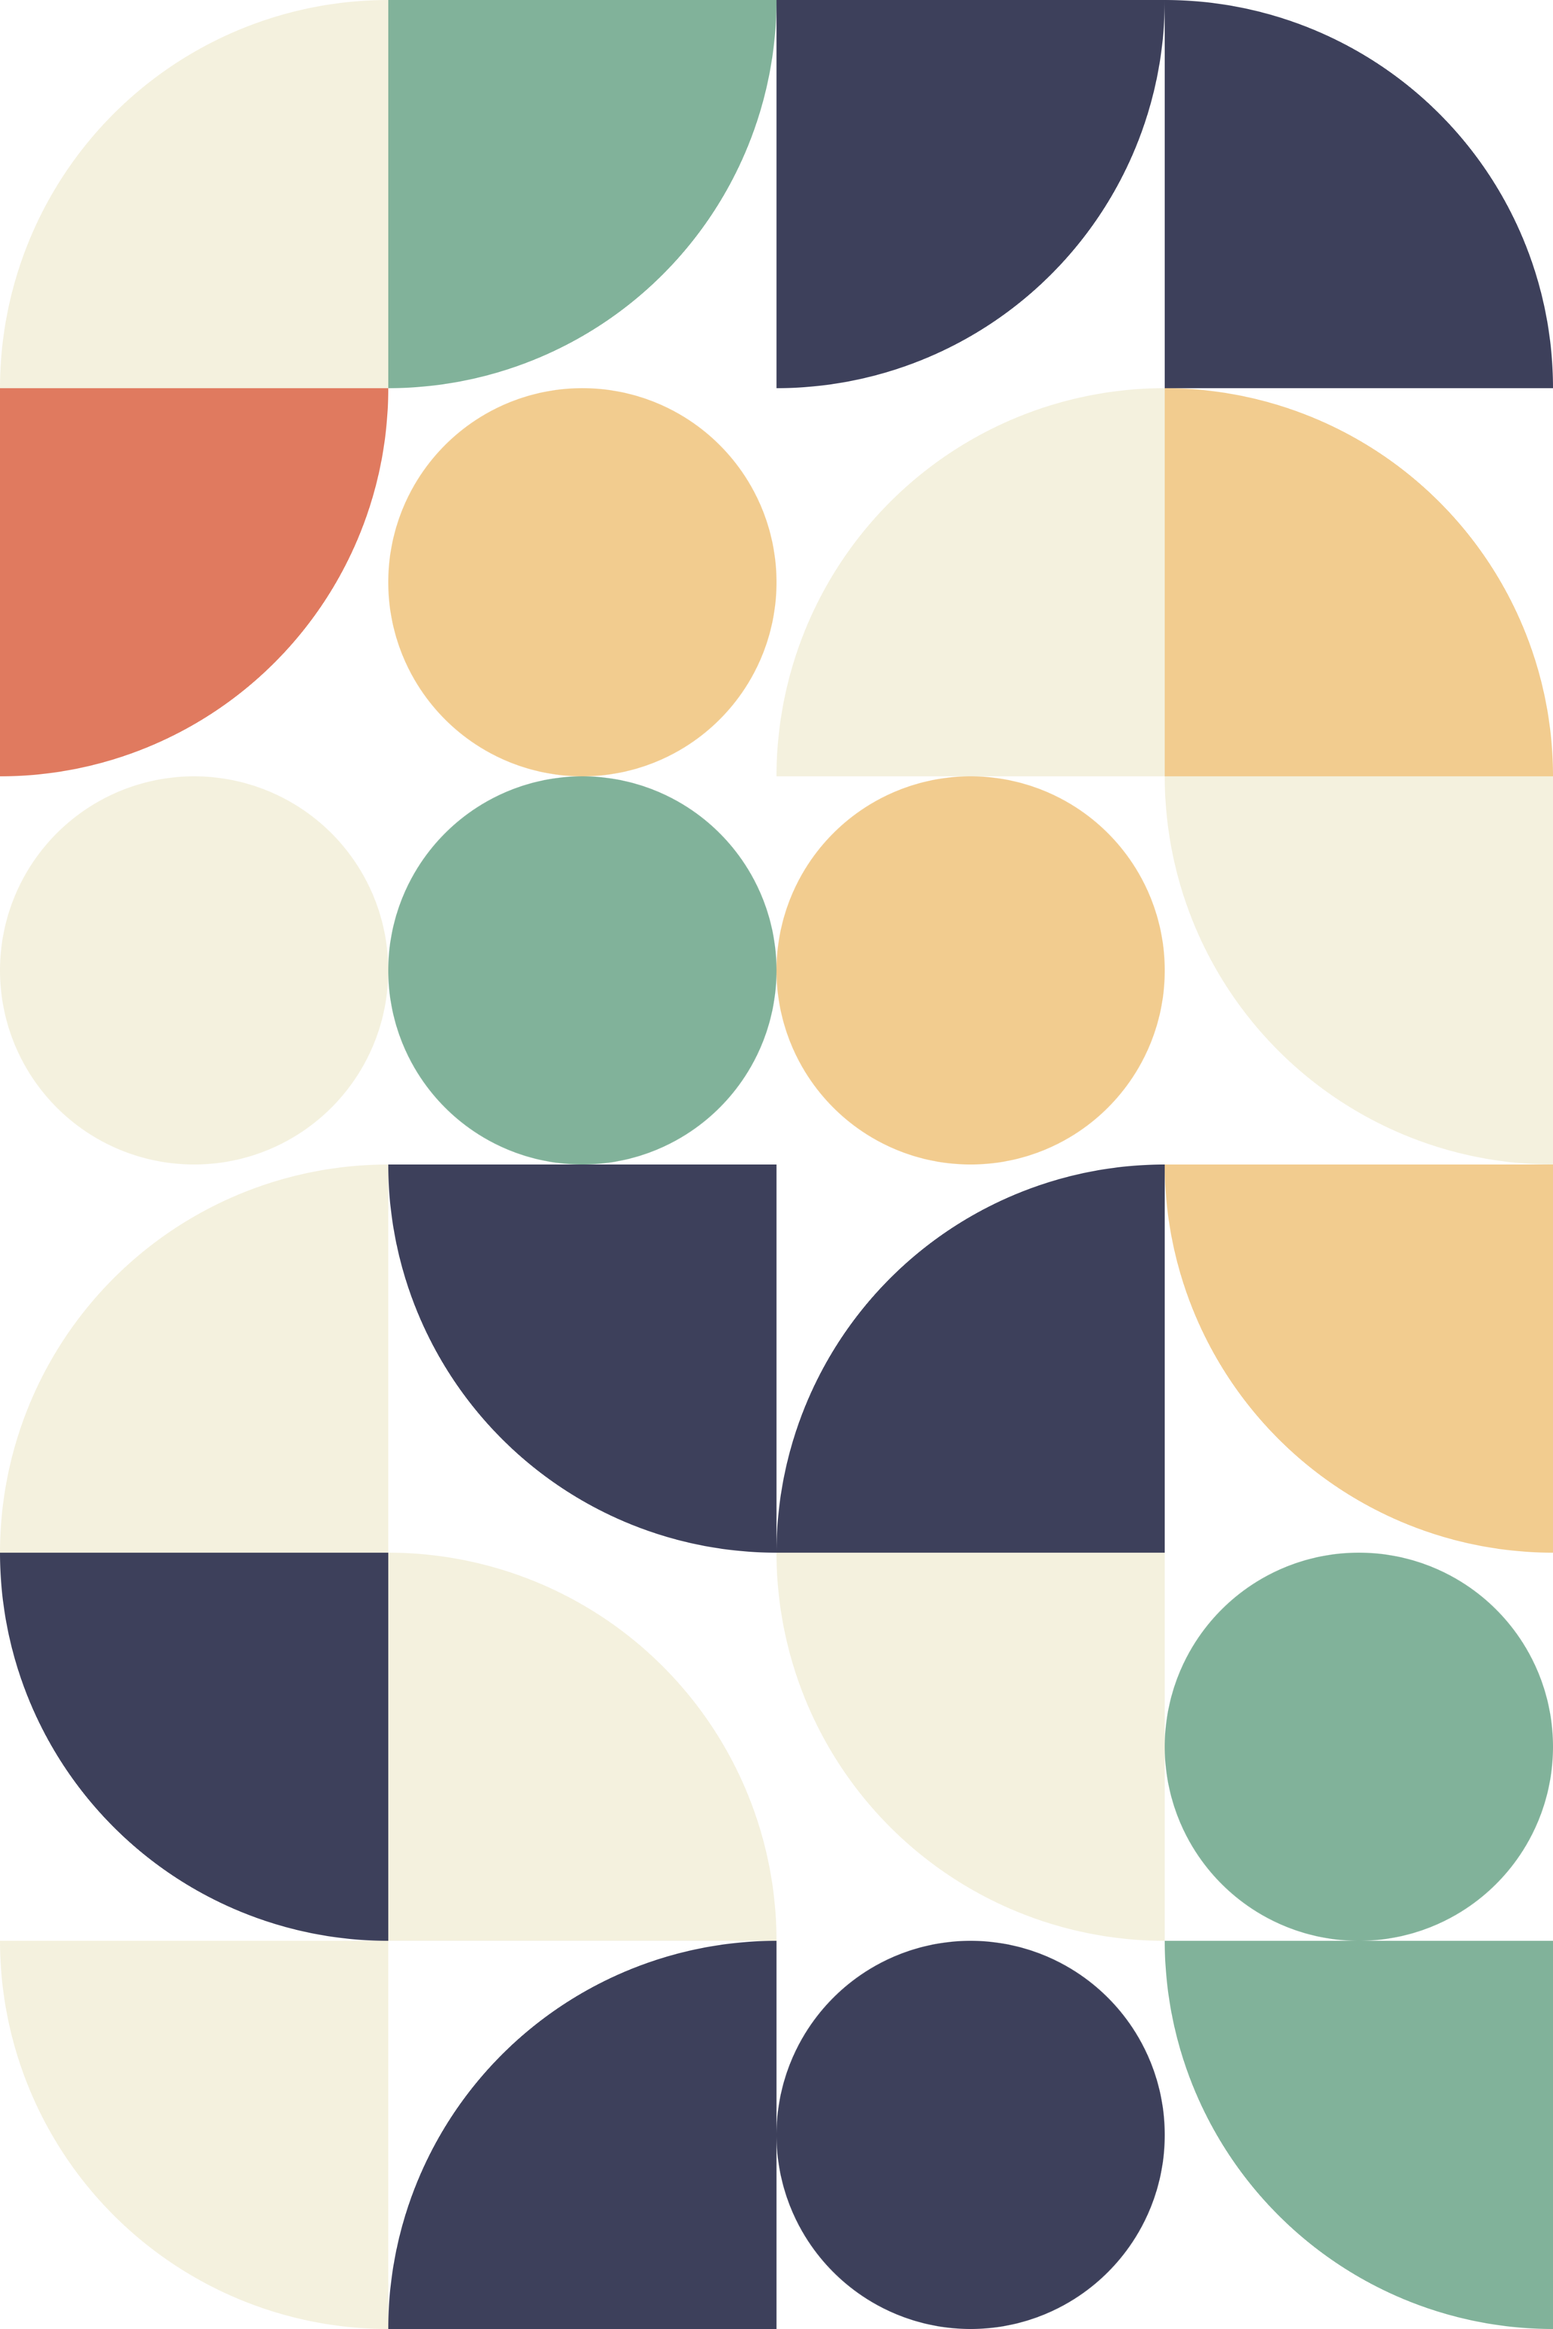
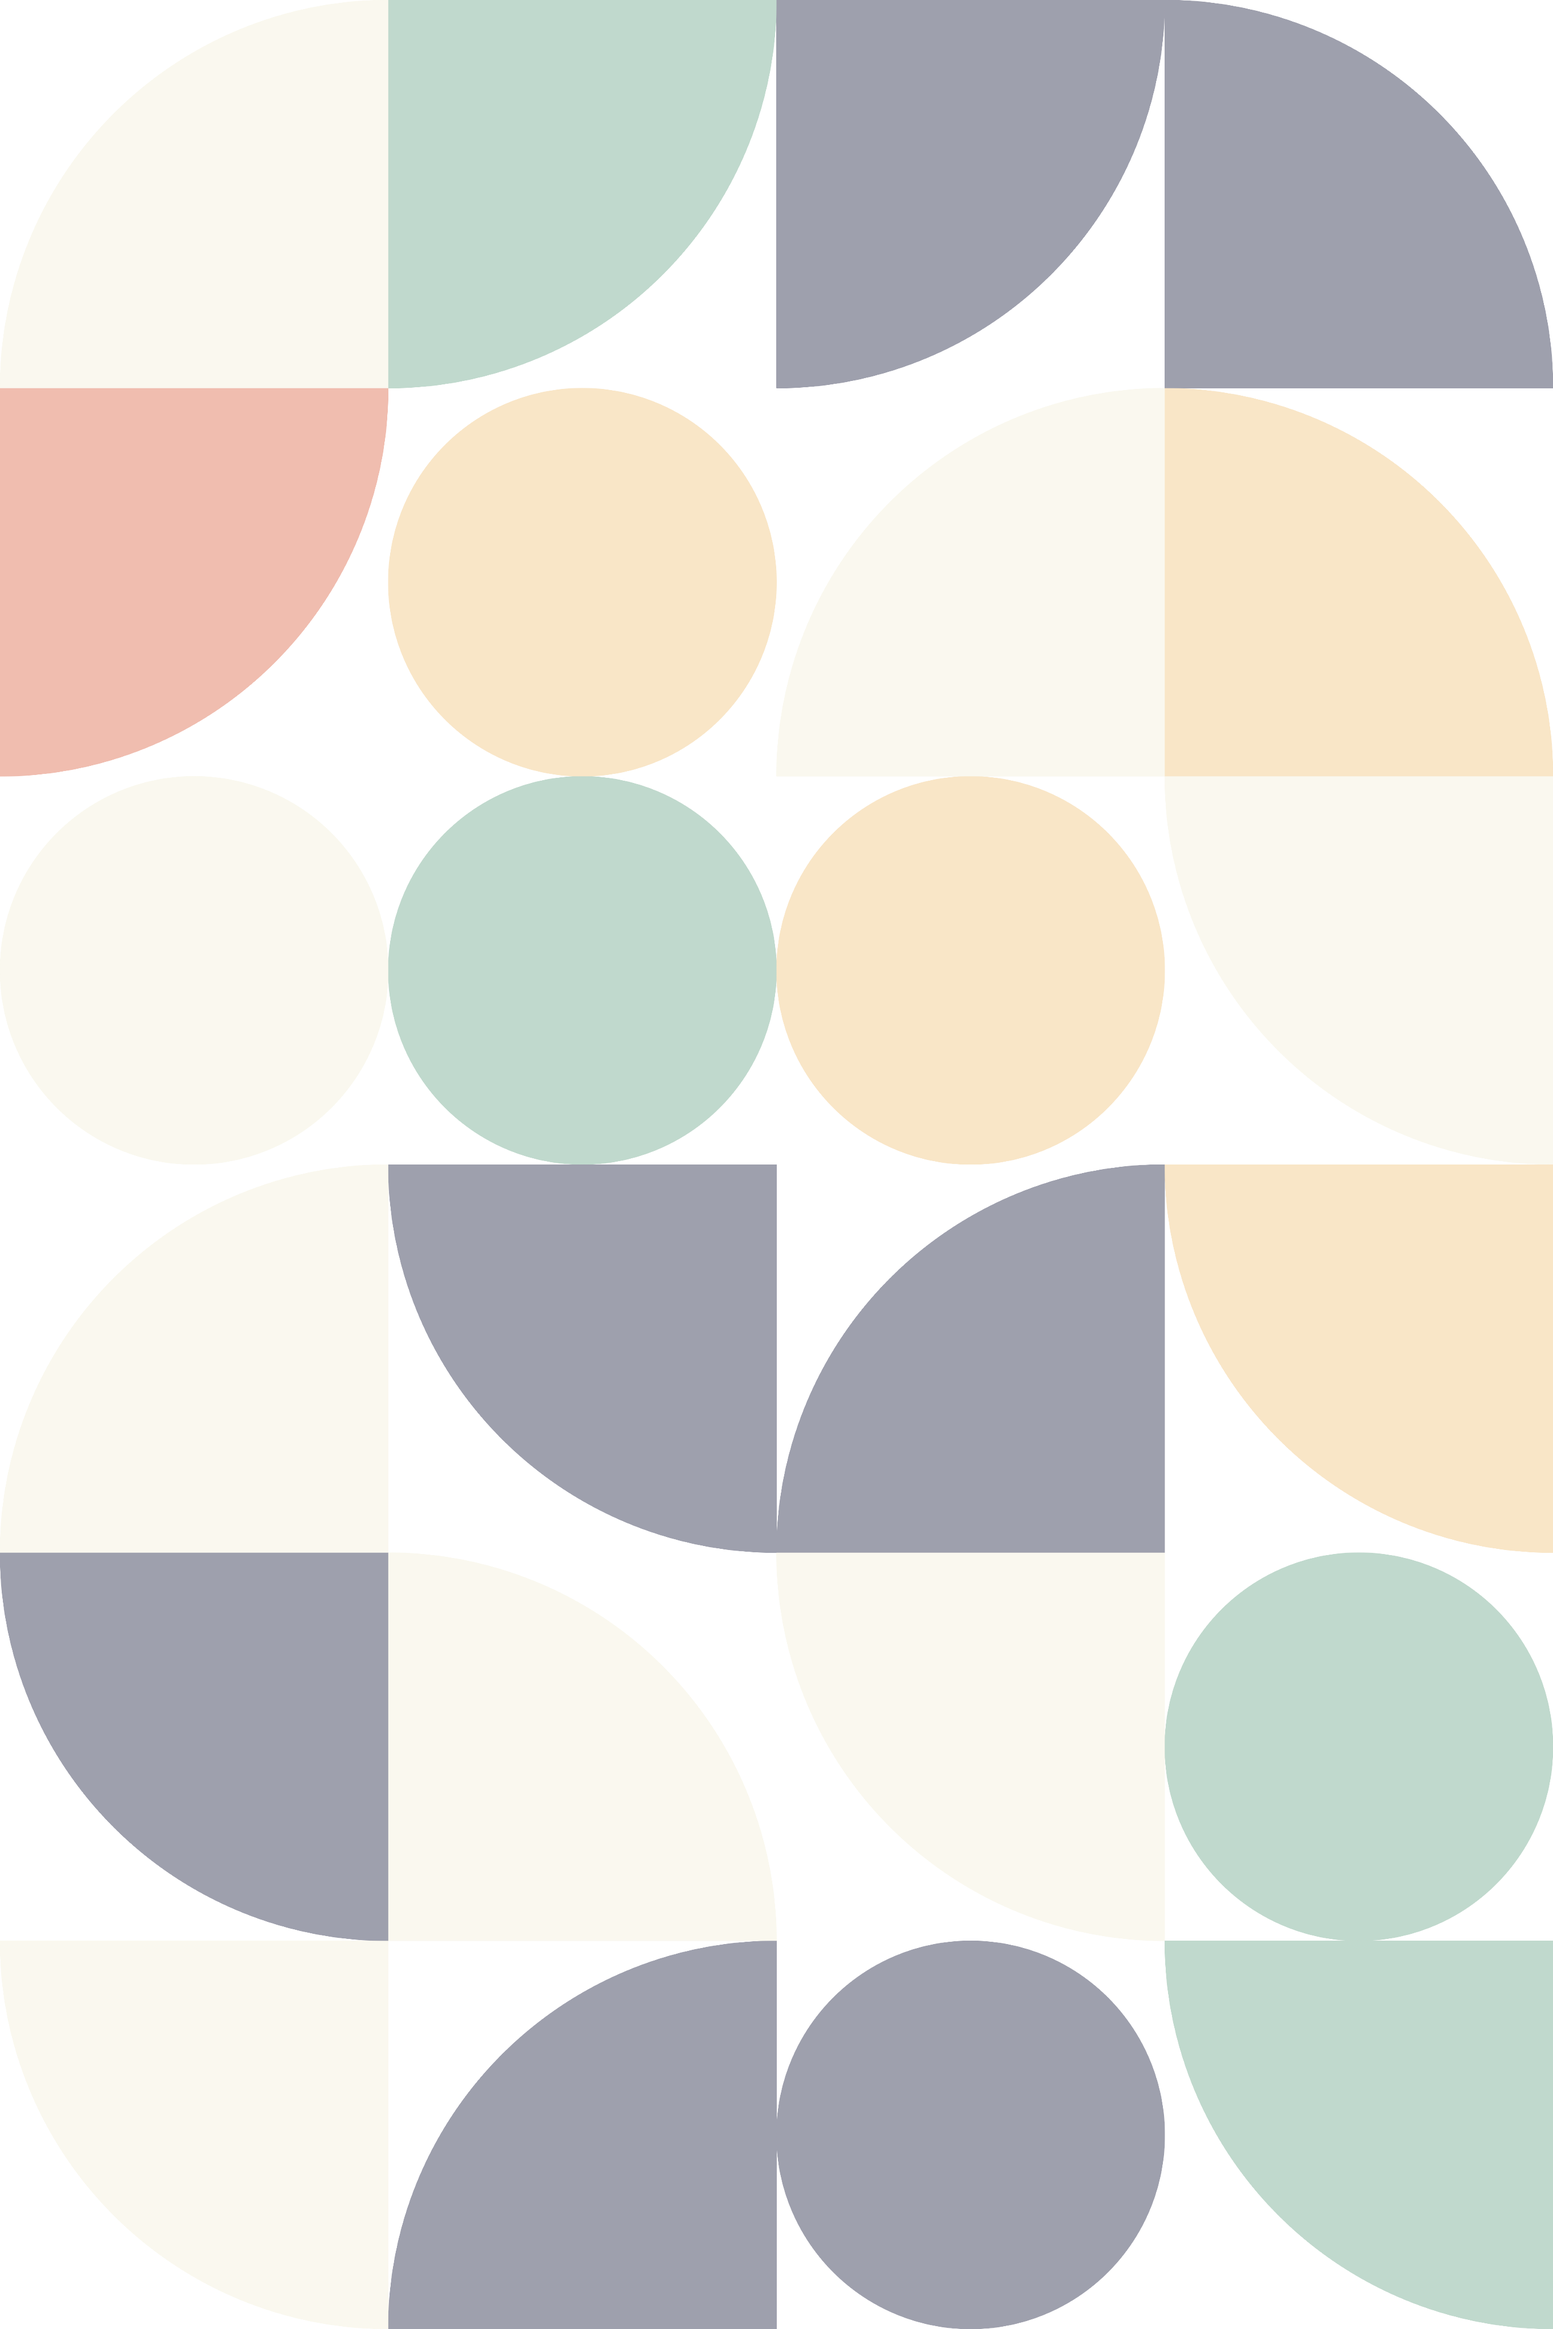
CSS changes in AppintmentSection

diff --git a/src/components/patient/appointment/AppointmentSection.tsx b/src/components/patient/appointment/AppointmentSection.tsx
@@ -43,54 +43,23 @@ function AppointmentSection({
     },
   };
 
-  const {
-    data: upcomingAppointments,
-    isLoading: upcomingAppointmentsLoading,
-  } = useQuery({
-    queryKey: ["upcomingAppointments", backendURL, config],
-    queryFn: () => PatientService.getUpcomingAppointments(backendURL, config),
-    staleTime: 200000,
-  });
+  const { data: upcomingAppointments, isLoading: upcomingAppointmentsLoading } =
+    useQuery({
+      queryKey: ["upcomingAppointments", backendURL, config],
+      queryFn: () => PatientService.getUpcomingAppointments(backendURL, config),
+      staleTime: 200000,
+    });
 
   console.log(upcomingAppointments);
 
-  const {
-    data: previousAppointments,
-    isLoading: previousAppointmentsLoading,
-  } = useQuery({
-    queryKey: ["previousAppointments", backendURL, config],
-    queryFn: () => PatientService.getPreviousAppointments(backendURL, config),
-    staleTime: 200000,
-  });
+  const { data: previousAppointments, isLoading: previousAppointmentsLoading } =
+    useQuery({
+      queryKey: ["previousAppointments", backendURL, config],
+      queryFn: () => PatientService.getPreviousAppointments(backendURL, config),
+      staleTime: 200000,
+    });
 
   console.log(previousAppointments);
-
-  // const upcomingAppointments = [
-  //   {
-  //     key: "1",
-  //     date: "2024/08/18",
-  //     timeSlot: "10:00 AM - 10:30 AM",
-  //     refNumber: "REF_2705",
-  //     doctor: "Dr. Smith",
-  //     medicalCenter: "City Hospital",
-  //     category: "General",
-  //     queueNumber: "5",
-  //     status: "Active",
-  //   },
-  //   {
-  //     key: "2",
-  //     date: "2024/08/29",
-  //     timeSlot: "11:00 AM - 11:30 AM",
-  //     refNumber: "REF_2346",
-  //     doctor: "Dr. John",
-  //     medicalCenter: "Central Clinic",
-  //     category: "Pediatric",
-  //     queueNumber: "10",
-  //     status: "Active",
-  //   },
-  // ];
-
-  
 
   const handleNavigation = (index: number) => {
     const navigationData = {
@@ -101,52 +70,58 @@ function AppointmentSection({
   };
 
   return (
-    <div className={`h-screen flex flex-col ${loaded ? "fade-in" : ""}`}>
-      {/* <PatientNavigation/> */}
-      <div className="ml-4 mb-4">
-        <p className="text-[var(--text-a)] font-medium text-xl">Appointments</p>
-        <p className="text-[var(--text-b)] text-xs">Appointments</p>
-      </div>
+    <div>
+      <div className={` flex flex-col ${loaded ? "fade-in" : ""}`}>
+        <div className="m-4 pl-4">
+          <p className="text-[var(--text-a)] font-medium text-xl">
+            Appointments
+          </p>
+          <p className="text-[var(--text-b)] text-xs">Appointments</p>
+        </div>
 
-      <div className="flex items-center justify-center">
-        <div className="bg-white w-[60%] h-auto pl-6 pt-6 pb-6 pr-6 flex flex-col rounded-[20px]">
-          <div className="flex flex-row items-center justify-center mb-4">
-            <p className="flex-1 h-1/2 text-left font-bold text-xl">
-              Hi, {name} <br />
-              {title}
-            </p>
-            <img src={ManageAppoinmentsImg} className="h-[220px]" alt="" />
-          </div>
+        <div className="flex items-center justify-center h-[100%]">
+          <div className="bg-white w-[60%] p-10 flex flex-col rounded-[20px]">
+            <div className="flex flex-row items-center justify-center mb-4">
+              <p className="flex-1 h-1/2 text-left font-bold text-2xl">
+                Hi, {name} <br />
+                {title}
+              </p>
+              <img src={ManageAppoinmentsImg} className="h-[200px]" alt="" />
+            </div>
 
-          <div className="flex flex-row gap-4 text-white">
-            {buttontitles.map((button, index) => {
-              const IconComponent = buttonimages[index];
-              return (
-                <button
-                  key={index}
-                  className="flex-1 w-[1/3] flex bg-contain bg-right hover:opacity-90 justify-center p-5 rounded-[16px]"
-                  style={{
-                    backgroundImage: `url(${wdgetBG})`,
-                    backgroundRepeat: "no-repeat",
-                    backgroundBlendMode: "luminosity",
-                    backgroundColor:
-                      index % 2 === 0 ? "var(--text-b)" : "var(--accent)",
-                  }}
-                  onClick={() => handleNavigation(index)}
-                >
-                  <div className="flex items-center justify-center flex-col w-24">
-                    <IconComponent style={{ fontSize: "2rem" }} />
-                    <p className="text-sm text-center font-semibold mt-1">
-                      {button}
-                    </p>
-                  </div>
-                </button>
-              );
-            })}
+            <div className="flex flex-row gap-4 text-white">
+              {buttontitles.map((button, index) => {
+                const IconComponent = buttonimages[index];
+                return (
+                  <button
+                    key={index}
+                    className="flex-1 w-[1/3] h-52 flex bg-contain bg-right hover:opacity-90 justify-center p-6 rounded-[16px]"
+                    style={{
+                      backgroundImage: `url(${wdgetBG})`,
+                      backgroundRepeat: "no-repeat",
+                      backgroundBlendMode: "luminosity",
+                      backgroundColor:
+                        index % 2 === 0 ? "var(--text-b)" : "var(--accent)",
+                    }}
+                    onClick={() => handleNavigation(index)}
+                  >
+                    <div className="flex items-center justify-center flex-col w-24 p-4">
+                      <IconComponent style={{ fontSize: "3rem" }} />
+                      <p className="text-xl text-center font-bold mt-4">
+                        {button}
+                      </p>
+                    </div>
+                  </button>
+                );
+              })}
+            </div>
           </div>
         </div>
       </div>
-      <Footer />
+      <div className="fixed bottom-0 w-full">
+      <Footer  />
+      </div>
+      
     </div>
   );
 }

diff --git a/src/routes/PatientRoutes.tsx b/src/routes/PatientRoutes.tsx
@@ -6,8 +6,8 @@ import {
 
 import { Routes, Route, Navigate } from "react-router-dom";
 
-import { FaRegAddressBook } from "react-icons/fa";
-import { MdOutlineCreateNewFolder } from "react-icons/md";
+import { HiDocumentText } from "react-icons/hi2";
+import { HiDocumentPlus } from "react-icons/hi2";
 
 import AppointmentSection from "../components/patient/appointment/AppointmentSection";
 import PatientHome from "../components/patient/home/PatientHome";
@@ -74,9 +74,9 @@ function PatientRoutes() {
                 "Previous Appointments",
               ]}
               buttonimages={[
-                FaRegAddressBook,
-                MdOutlineCreateNewFolder,
-                FaRegAddressBook,
+                HiDocumentText,
+                HiDocumentPlus,
+                HiDocumentText,
               ]}
               // must be same order as buttontiles
               navigations={[

diff --git a/src/components/patient/appointment/UpcomingAppointmentTable.tsx b/src/components/patient/appointment/UpcomingAppointmentTable.tsx
@@ -9,7 +9,7 @@ const transformAppointments = (appointments: any) => {
       date: apt.date,
       timeSlot: apt.timeSlot,
       refNumber: `REF_${apt.aptNumber}`,
-      doctor: `DR.${apt.doctorName}`,
+      doctor: `DR. ${apt.doctorName}`,
       medicalCenter: apt.medicalCenterName,
       category: apt.aptCategories.join(", "),
       queueNumber: String(apt.queueNumber),
